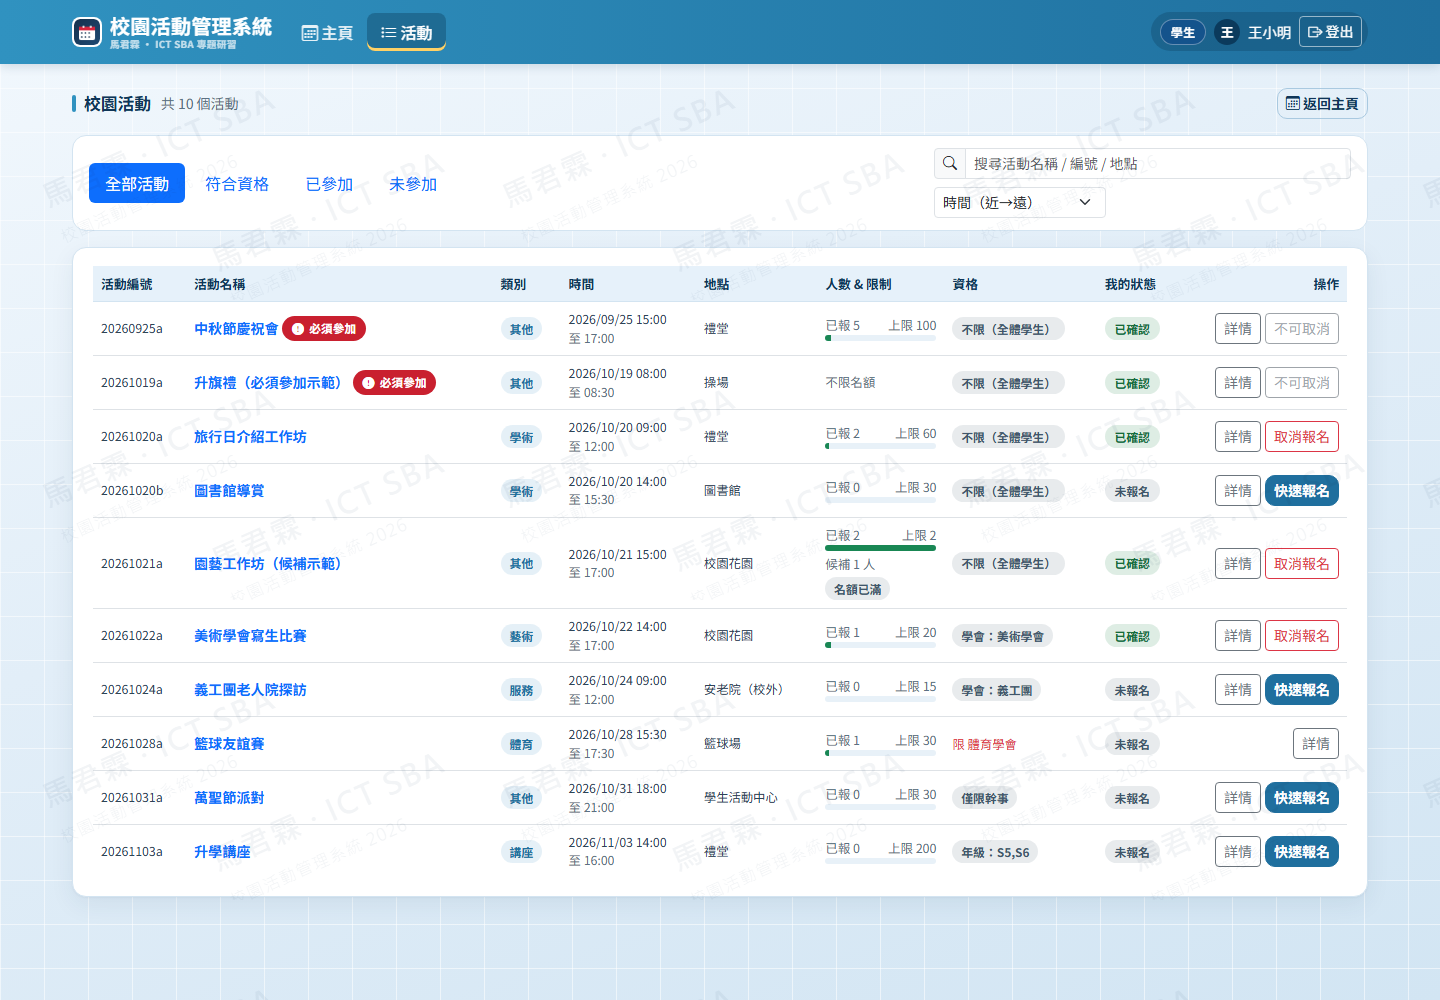
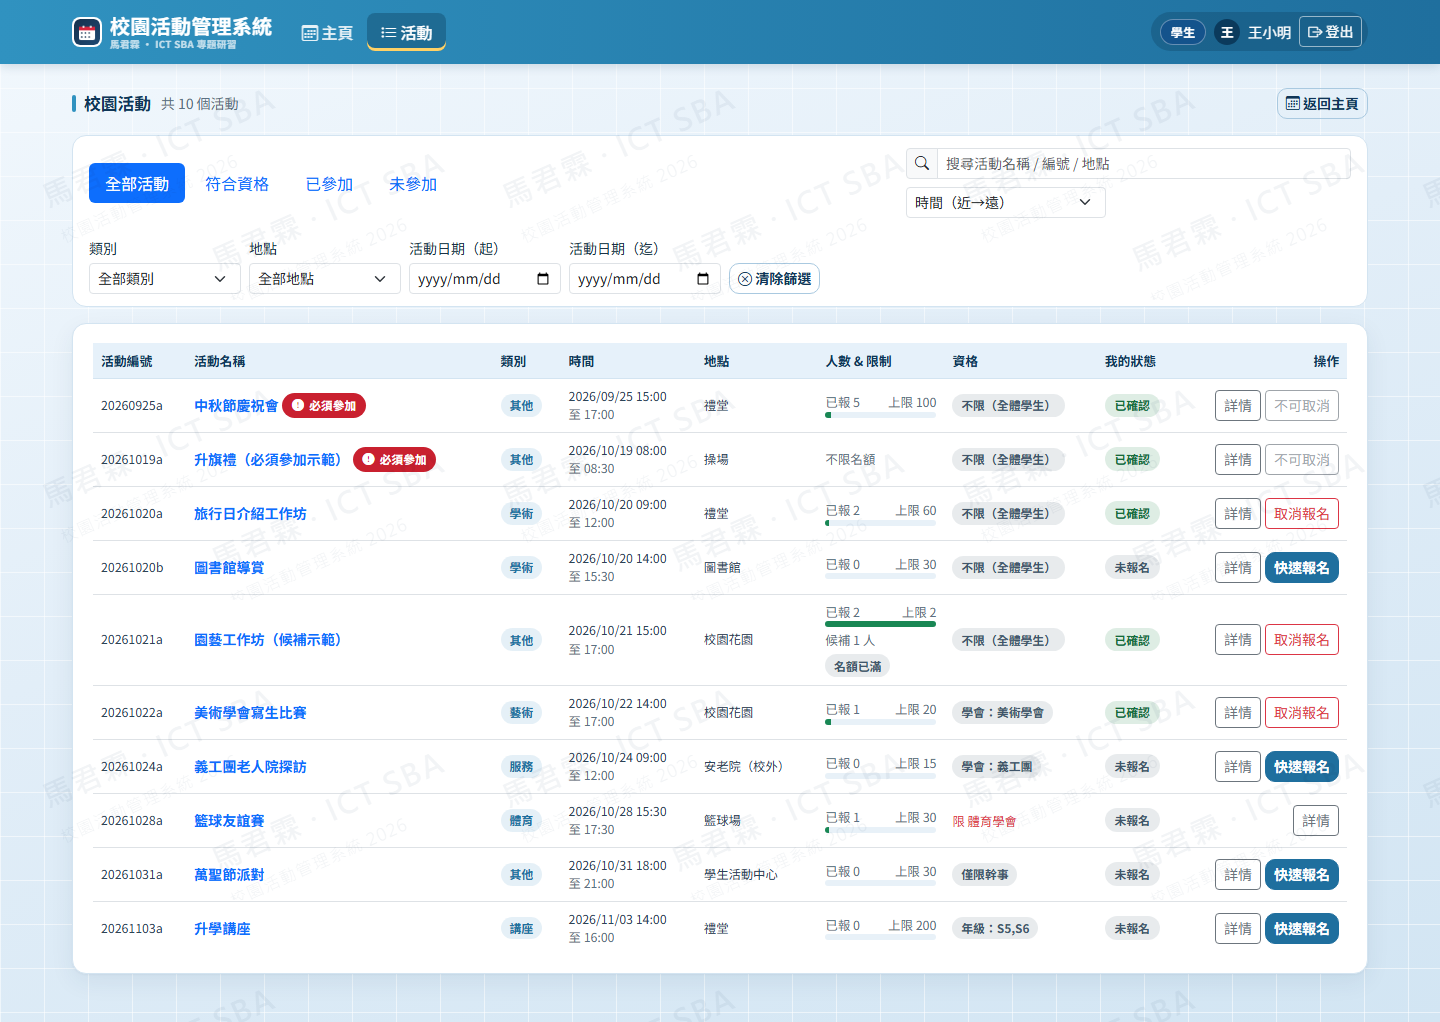
docs(v1.5): 91/91 測試報告、篩選與狀態標識截圖、契約第十節與運行說明

diff --git a/3-docs/07_测试报告与验收.md b/3-docs/07_测试报告与验收.md
@@ -1,7 +1,7 @@
 # 測試報告與驗收清單
 
 > 本文件記錄「校園活動管理系統」在交付前的自動化測試結果、截圖證據、手動驗收步驟與已知限制。
-> 測試日期：2026-11-07 ｜ 版本：v1.4（Modal 圖層修正、報名成功橫幅、時間以伺服器為準） ｜ 測試環境：Windows 11、Node.js v24.20.0、Google Chrome（headless）
+> 測試日期：2026-11-07 ｜ 版本：v1.5（在 v1.4 基礎上新增活動多維篩選、點名頁活動篩選與狀態標識） ｜ 測試環境：Windows 11、Node.js v24.20.0、Google Chrome（headless）
 > 測試對象：本機示範模式（`4-local-demo/server.js`，http://127.0.0.1:8787）
 
 ---
@@ -20,7 +20,7 @@
 ```powershell
 cd CampusEventSystem
 $env:CES_NOW='2026-10-18 09:00'; node 4-local-demo\server.js   # 視窗 1：固定時鐘啟動（測試用）
-node C:\Users\ma173\Desktop\ictsba\_e2e\e2e.mjs              # 視窗 2：跑 76 項端到端測試並重拍截圖
+node C:\Users\ma173\Desktop\ictsba\_e2e\e2e.mjs              # 視窗 2：跑 91 項端到端測試並重拍截圖
 ```
 
 > `CES_NOW` 是 v1.4 加的可選環境變數：只影響 mock server 的「現在」，讓測試結果不受真實日期影響（真實使用時不要設定，就會跟系統時鐘一致）。
@@ -29,7 +29,7 @@ node C:\Users\ma173\Desktop\ictsba\_e2e\e2e.mjs              # 視窗 2：跑 76
 
 ---
 
-## 二、端到端測試結果：76 / 76 全部通過
+## 二、端到端測試結果：91 / 91 全部通過
 
 ### 2.1 基本功能（v1.0 起的回歸測試）
 
@@ -140,11 +140,34 @@ node C:\Users\ma173\Desktop\ictsba\_e2e\e2e.mjs              # 視窗 2：跑 76
 > 這樣瀏覽器時區、測試時鐘或 GAS/mock 時間不同時，畫面與後端判斷不會互相矛盾。
 > 也因為 GAS `getCalendarData` 多了 `now` 欄位，**後端需要重新部署**（不用重跑 `setupDatabase()`），health 會顯示 `version: "1.4"`。
 
-原始機器可讀報告：`3-docs/e2e-report.json`（`"summary": "76/76"`）。
+### 2.6 v1.5（活動多維篩選、點名頁活動篩選與狀態標識）
+
+| # | 測試項目 | 結果 | 實測重點 |
+| --- | --- | --- | --- |
+| 77 | 活動列表篩選選單齊備 | ✅ | 類別 6 項、地點 7 項；排序含 `time／timeDesc／eligDesc／eligAsc／latest` |
+| 78 | 類別篩選（藝術） | ✅ | 只剩 `20261022a` |
+| 79 | 地點篩選（禮堂） | ✅ | 3 筆：中秋、旅行日、升學講座 |
+| 80 | 時間段篩選（10/20–10/21） | ✅ | 3 筆：`20261020a`、`20261020b`、`20261021a`（含起迄當日） |
+| 81 | 生效篩選提示與結果數量 | ✅ | 提示「已套用篩選」、數量後附「（起：2026-10-20｜迄：2026-10-21）」 |
+| 82 | 清除篩選可恢復全部活動 | ✅ | 一鍵回到 10 筆 |
+| 83 | 時間排序（遠→近） | ✅ | 首列 `20261103a`（最晚） |
+| 84 | 資格排序（大範圍→小範圍） | ✅ | 首列為「不限（全體學生）」的活動 |
+| 85 | 資格排序（小範圍→大範圍） | ✅ | 首列為「限美術學會」等最嚴格活動 |
+| 86 | 點名頁活動選擇器有狀態分組與徽章 | ✅ | `<optgroup>` 分「未進行（9）／已結束（1）」、選項前綴 `【…】`、`.tag-status` 徽章 |
+| 87 | 點名頁「未進行」篩選 | ✅ | 9 筆、首筆升旗禮、徽章「未進行（未開始）」 |
+| 88 | 點名頁「已結束」篩選 | ✅ | 1 筆（中秋）、徽章「已結束」（`.is-ended`） |
+| 89 | 點名頁「進行中」篩選（0 場） | ✅ | 下拉禁用、顯示「（沒有符合篩選條件的活動）」 |
+| 90 | 點名頁關鍵字搜尋活動 | ✅ | 輸入「圖」→ 只剩圖書館導賞 |
+| 91 | 點名頁初始狀態徽章 | ✅ | 預設選中未進行的活動 → 徽章「未進行」、點名按鈕為 0（v1.1 鎖定仍生效） |
+
+> v1.5 是**純前端**功能（`events.html`、`admin.html`、`event.js`、`admin.js`、`style.css`），
+> 沒有改動任何 API 或試算表欄位，所以 **GAS 不必重新部署**；health 仍回 `"1.4"`。
+
+原始機器可讀報告：`3-docs/e2e-report.json`（`"summary": "91/91"`）。
 
 ---
 
-## 三、截圖證據（`3-docs/screenshots/`，共 27 張）
+## 三、截圖證據（`3-docs/screenshots/`，共 29 張）
 
 | 檔案 | 內容 |
 | --- | --- |
@@ -175,6 +198,8 @@ node C:\Users\ma173\Desktop\ictsba\_e2e\e2e.mjs              # 視窗 2：跑 76
 | `25-register-banner-mobile.png` | v1.4 手機版報名橫幅：375px 滿版、不撐寬頁面 |
 | `26-admin-modal-clickable.png` | v1.4 新增活動彈窗：明亮可操作（遮罩在下面），資格 chips 與「符合條件的學生 5 人」正常 |
 | `27-admin-event-list-v14.png` | v1.4 後台活動清單：新建的「校園攝影工作坊」（班別 5A／年級 S5）已出現在清單 |
+| `29-events-filters.png` | v1.5 活動列表多維篩選：類別／地點／日期區間＋排序（時間雙向、資格範圍雙向），圖中示範套用「地點＝禮堂」 |
+| `30-admin-attendance-filters.png` | v1.5 點名頁：活動選擇器可依關鍵字與狀態（進行中／未進行／已結束）篩選，選中活動旁顯示狀態徽章 |
 
 ---
 
@@ -200,6 +225,8 @@ node C:\Users\ma173\Desktop\ictsba\_e2e\e2e.mjs              # 視窗 2：跑 76
 18. **v1.4 新增活動不再灰屏**：老師／管理員登入 → 後台「新增活動」→ 彈窗是明亮的、可以直接點 chips 與輸入框（修好前整片變灰、完全點不到）。這是因為 v1.3 把 `.modal` 與 `.modal-backdrop` 設成同一個 `z-index: 1050`，遮罩蓋在彈窗上；v1.4 改成 1030 < 1050 < 1055。
 19. **v1.4 報名成功橫幅**：學生登入 → 活動頁任一可報名活動按「快速報名」→ 導覽列下方出現全寬綠色橫幅「報名成功！已加入「活動名」」，右側有「查看我的活動 →」與關閉鈕，約 5 秒後自動收起；手機版同樣滿版。
 20. **v1.4 時間一致**：用 `CES_NOW` 固定時鐘啟動 mock server 後，主頁「今日」與月曆初始月份都跟著後端時間走（不再看瀏覽器日期），因此「必須參加」徽章、報名窗口、點名時序在示範時不會互相矛盾。
+21. **v1.5 活動多維篩選**：學生登入活動頁 → 依序示範「類別＝藝術」「地點＝禮堂」「日期 10/20–10/21」→ 列表即時縮小、數量後出現篩選摘要與「已套用篩選」提示 → 排序切「時間（遠→近）」看最晚活動排第一，再切「資格（大→小）／（小→大）」看「不限」與「限美術學會」的順序對調 → 按「清除篩選」回到 10 筆。
+22. **v1.5 點名頁篩選與狀態**：管理員後台「報名與點名」→ 上方狀態 pill 切「未進行／已結束／進行中」→ 下拉選單依狀態分組、選項有 `【…】` 前綴、右側顯示綠／橙／灰狀態徽章；搜尋「圖」→ 只剩圖書館導賞；選「已結束」的中秋活動 → 仍可標記出席。
 
 ---
 
@@ -233,6 +260,8 @@ node C:\Users\ma173\Desktop\ictsba\_e2e\e2e.mjs              # 視窗 2：跑 76
 | **點「新增活動」整個畫面變灰、彈窗點不到（GitHub Pages 上一樣）** | v1.3 的 `style.css` 把 `.modal` 與 `.modal-backdrop` 都設成 `z-index: 1050`，而遮罩是後插入 body 的兄弟節點 → 遮罩畫在彈窗上面 | v1.4：改回正確階梯 `.navbar 1030 < .ces-banner-host 1045 < .modal-backdrop 1050 < .modal 1055 < .toast 1090`，e2e 以 `elementFromPoint` 驗證命中彈窗內部 |
 | **報名成功提示是右上角小 toast，會壓住導覽列、又不夠顯眼** | 沿用 Bootstrap Toast | v1.4：新增 `CES_UI.banner()`，在導覽列正下方出現全寬綠色橫幅（含「查看我的活動」連結、關閉鈕、5.2 秒進度條），報名／候補／取消都改用橫幅；手機 375px 滿版 |
 | **主頁「今日」與月曆初始月份用瀏覽器日期，和後端判斷不一致** | 前端各自 `new Date()` | v1.4：`getCalendarData` 回傳 `now`，`calendar.js` 以 `clockDate()` 統一取伺服器時間（`month`／`heroDate`／`initialDate` 都吃同一來源） |
+| **活動列表只能搜尋關鍵字＋兩種排序，找特定地點／類別／日期很麻煩** | 篩選只在後端排序，前端沒有多維條件 | v1.5：新增類別／地點／日期區間篩選＋時間遠→近、資格範圍大→小／小→大排序，全部在前端完成（不改 API） |
+| **點名頁活動下拉一長串，很難找到「進行中」的活動** | `<select>` 只列活動名稱與時間 | v1.5：加關鍵字搜尋、狀態 pill（進行中／未進行／已結束）、狀態徽章與 `<optgroup>` 分組 |
 
 ## 六、已知限制（誠實記錄，方便答問）
 
@@ -252,6 +281,8 @@ node C:\Users\ma173\Desktop\ictsba\_e2e\e2e.mjs              # 視窗 2：跑 76
 14. **v1.4 要重新部署 GAS**：`getCalendarData` 的回應多了 `now`（時間單一來源），沒有重新部署的話前端會退回瀏覽器時間（畫面仍可用，但「今日」與月曆初始月份可能和後端不同）。不用重跑 `setupDatabase()`；部署後 `?action=health` 應顯示 `"1.4"`。
 15. **報名橫幅是「不打斷操作」的通知**：5.2 秒後自動收起，滑鼠移上去會暫停計時；關掉後仍可在「已參加」Tab 與活動列表看到最新狀態，不會遺失資訊。
 16. **`CES_NOW` 只影響本機 mock**：它是測試用的固定時鐘（`$env:CES_NOW='2026-10-18 09:00'`），GAS 版本沒有這個變數；真實部署一律使用 Google 伺服器時間。
+17. **v1.5 是純前端功能**：`events.html`／`admin.html`／`event.js`／`admin.js`／`style.css` 的改動，**不需要重新部署 GAS、也不需要重跑 `setupDatabase()`**；只要把前端檔案更新（推 GitHub 後 Pages 會自動重新部署）即可。health 版本仍為 `"1.4"`。
+18. **資格範圍排序是「近似覆蓋率」**：以班級／年級／學會數量佔白名單總數的比例估算，並非實際學生人數；若某學會只有 1 位學生，該活動仍會排在較窄的一端。這是刻意的近似（不需要額外 API 或統計）。
 
 ---
 

diff --git a/README.md b/README.md
@@ -16,7 +16,8 @@
 
 主要功能：活動分類、活動日曆（公眾假期紅日、我主持／已報名／必須參加分色，手機可橫向滾動）、撞期警告（只警告不攔截）、候補名單自動遞補、名額控制、資格限制（班級／年級／學會／職位，**白名單點選**）、**必須參加活動（自動報名＋不能取消）**、點名時序限制（活動開始後才可點名）、權限控制（報名只限學生）、老師專屬主頁統計（我負責的活動／已開始／報名中）、手機版後台活動清單免橫向滑動、手機版月曆活動名稱走馬燈、全站浮水印與作者署名、資格人數即時預覽（同一欄 OR、不同欄 AND）、數據統計圖表（出席率與出席圓餅圖只計已開始活動）、每日郵件提醒。
 
-**v1.4（最新）**：報名／取消改為導覽列下方的**全寬橫幅**（含「查看我的活動」連結、5.2 秒進度條，手機滿版）；修正「新增活動」彈窗在 GitHub Pages 上**灰屏卡住**的圖層問題；「今日」與月曆初始月份改以**伺服器時間**為準；本機示範伺服器可用 `CES_NOW` 固定時鐘方便示範與測試。
+**v1.5（最新）**：活動列表新增**多維篩選**（類別／地點／活動日期區間）與**雙向排序**（時間近→遠／遠→近、資格範圍大→小／小→大）；後台「報名與點名」的活動選擇器可依**關鍵字**與**狀態**（進行中／未進行／已結束）篩選，並顯示狀態徽章。v1.5 全部是前端改動，**GAS 不需重新部署**。
+**v1.4**：報名／取消改為導覽列下方的**全寬橫幅**（含「查看我的活動」連結、5.2 秒進度條，手機滿版）；修正「新增活動」彈窗在 GitHub Pages 上**灰屏卡住**的圖層問題；「今日」與月曆初始月份改以**伺服器時間**為準；本機示範伺服器可用 `CES_NOW` 固定時鐘方便示範與測試。
 
 ---
 
@@ -27,7 +28,7 @@ CampusEventSystem/
 ├── 1-frontend/                 純靜態前端（可直接部署到 GitHub Pages）
 │   ├── login.html              登入頁
 │   ├── dashboard.html          主頁：日曆 + 即將舉行活動
-│   ├── events.html             活動列表：搜尋 / 分類篩選 / 四個 Tab
+│   ├── events.html             活動列表：搜尋 / 四 Tab / 多維篩選（類別、地點、日期）與排序
 │   ├── event_detail.html       活動詳情：報名 / 取消 / 候補
 │   ├── admin.html              活動管理、報名名單與點名、用戶權限
 │   ├── stats.html              數據報表（Chart.js 圖表）
@@ -64,11 +65,11 @@ CampusEventSystem/
 | `04_运行说明.md` | 兩種啟動方式（本機示範 / 真正部署到 Google）+ 排錯 |
 | `05_API契约与数据字典.md` | **開發契約**：所有 action、請求／回應格式、錯誤碼、欄位定義 |
 | `06_GitHub实战教程.md` | 由零開始的 GitHub 實戰教程（推送、分支、PR、Actions、Pages…） |
-| `07_测试报告与验收.md` | 自動化測試結果（76/76）、手動驗收腳本、已修問題與已知限制 |
+| `07_测试报告与验收.md` | 自動化測試結果（91/91）、手動驗收腳本、已修問題與已知限制 |
 | `08_GitHub使用教學.md` | 從註冊 GitHub、推上專案、啟用 Pages 到日常 commit 的完整教學 |
 | `09_系统架构说明.md` | **系統架構白皮書**：分層架構、14 個 API 權限表、資料模型、狀態機、報名/取消/點名流程、設計決策與部署拓撲（含 mermaid 圖，適合直接放進 SBA 報告） |
 | `10_系统架构图.html` | **互動式架構圖**（單一 HTML，離線可用）：可直接給評審看，也可匯出 PNG 放進報告 |
-| `screenshots/` | 27 張實際執行截圖（登入、主頁、列表、詳情、後台、點名、統計、手機版、v1.4 橫幅） |
+| `screenshots/` | 29 張實際執行截圖（登入、主頁、列表、詳情、後台、點名、統計、手機版、v1.4 橫幅） |
 
 ---
 
@@ -154,7 +155,7 @@ node 4-local-demo\server.js
 
 ## 七、實際執行畫面
 
-以下截圖全部由 headless Chrome 實際操作本機示範伺服器產生（完整 27 張見 `3-docs/screenshots/`）：
+以下截圖全部由 headless Chrome 實際操作本機示範伺服器產生（完整 29 張見 `3-docs/screenshots/`）：
 
 **學生主頁（月曆 + 統計 + 即將舉行；升旗禮帶「必須參加」紅徽章）**
 
@@ -226,7 +227,15 @@ node 4-local-demo\server.js
 
 ![可操作的新增活動彈窗](3-docs/screenshots/26-admin-modal-clickable.png)
 
-> 測試結果：端到端 76/76 全部通過，詳見 `3-docs/07_测试报告与验收.md`；系統設計與架構說明見 `3-docs/09_系统架构说明.md`。
+**v1.5：活動列表多維篩選（類別／地點／日期）＋雙向排序**
+
+![活動列表篩選](3-docs/screenshots/29-events-filters.png)
+
+**v1.5：點名頁可依關鍵字與狀態（進行中／未進行／已結束）篩選活動**
+
+![點名頁活動篩選](3-docs/screenshots/30-admin-attendance-filters.png)
+
+> 測試結果：端到端 91/91 全部通過，詳見 `3-docs/07_测试报告与验收.md`；系統設計與架構說明見 `3-docs/09_系统架构说明.md`。
 
 ---
 

diff --git a/3-docs/04_运行说明.md b/3-docs/04_运行说明.md
@@ -93,6 +93,8 @@ npx --yes http-server 1-frontend -p 5500 -c-1
 
 > **v1.4 注意**：`getCalendarData` 多回了一个 `now` 字段（「今日」与月历初始月份以后端时间为准），**同样不用重跑 `setupDatabase()`，但要重新部署**，health 应显示 `"1.4"`。若看到弹窗灰屏卡住，那是旧前端缓存，强制刷新（`Ctrl + F5`）即可——v1.4 已修正 `.modal` / `.modal-backdrop` 的 `z-index`。
 
+> **v1.5 注意**：v1.5 只改前端（活动列表多维筛选、点名页活动筛选与状态标识），**后端完全没动**——不需要重新部署 GAS、也不需要重跑 `setupDatabase()`，health 仍显示 `"1.4"`。只要把 `1-frontend` 更新（推 GitHub 后 Pages 自动重新部署，或本机重新整理页面）即可。
+
 ### 4. 部署为 Web App（拿 API 地址）
 
 1. 右上角「部署 → 新建部署 → 选择类型：网页应用」。
